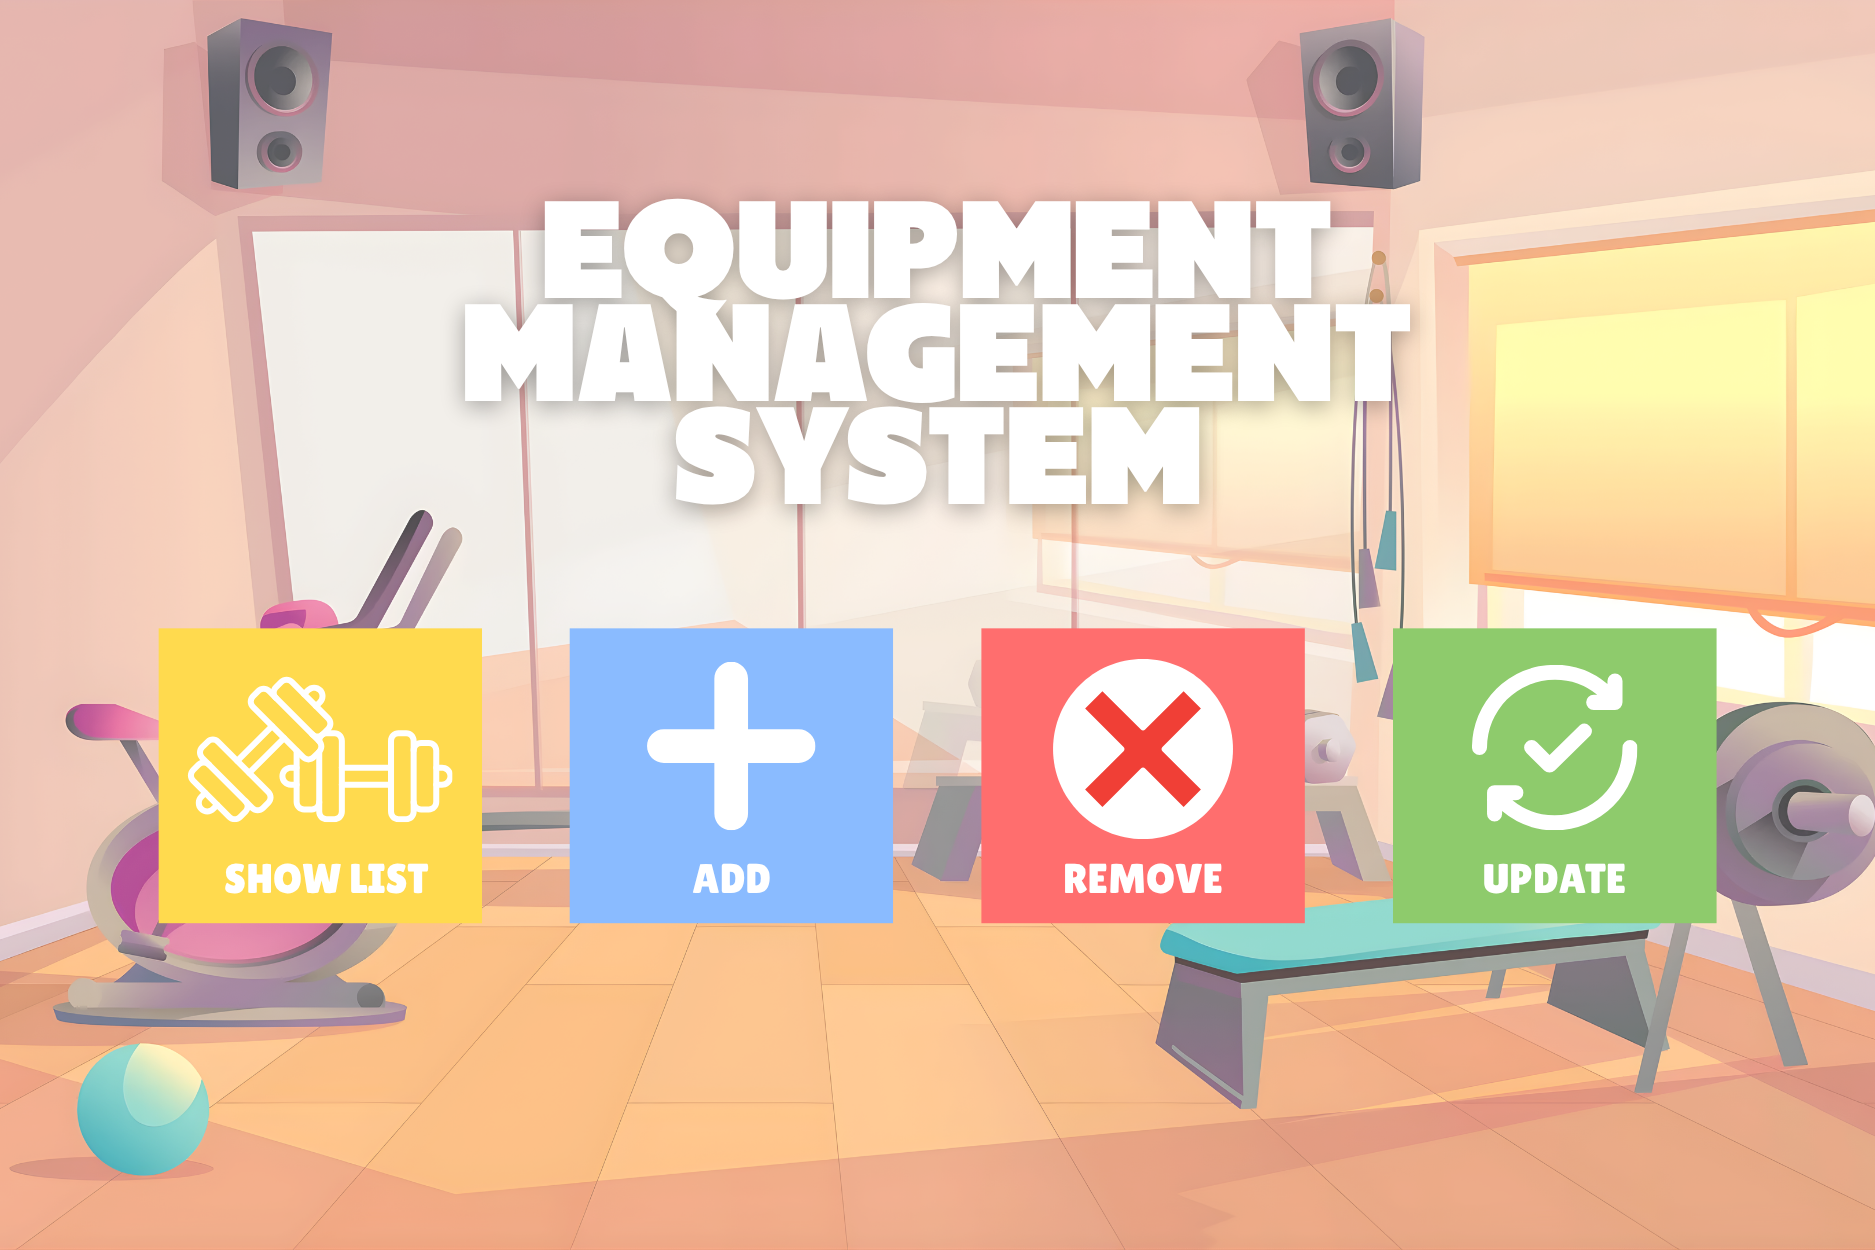
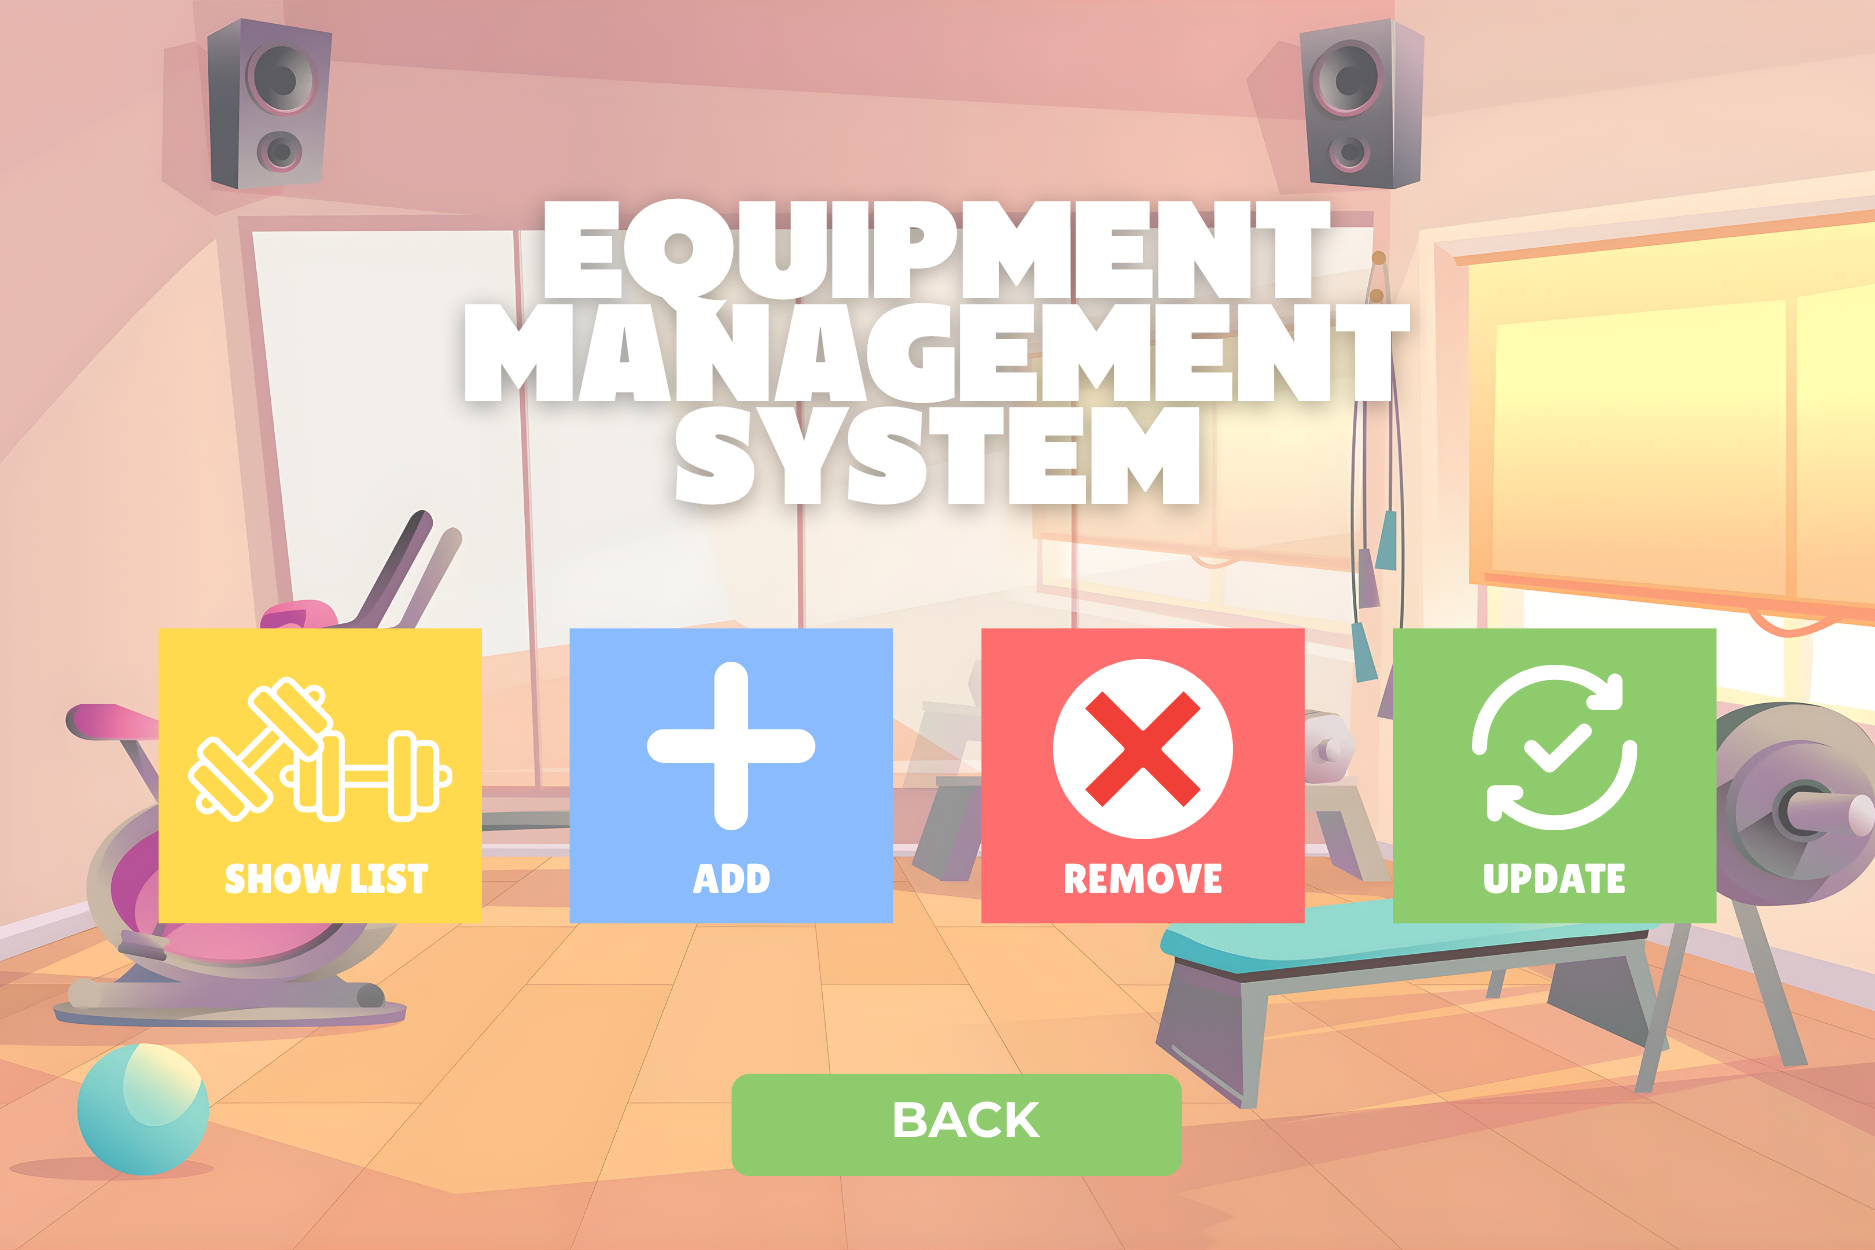
Dashboard Working, Equipment Tab started

Changed region(s): [[0.3712, 0.8424, 0.6496, 0.9672]]

diff --git a/src/main/java/com/gymdb/controller/MainMenuController.java b/src/main/java/com/gymdb/controller/MainMenuController.java
@@ -1,0 +1,95 @@
+package com.gymdb.controller;
+
+import javafx.event.ActionEvent;
+import javafx.fxml.FXML;
+import javafx.fxml.FXMLLoader;
+import javafx.scene.Node;
+import javafx.scene.Parent;
+import javafx.scene.Scene;
+import javafx.scene.control.Button;
+import javafx.stage.Stage;
+
+import java.io.IOException;
+
+public class MainMenuController {
+
+    @FXML private Button membersTab;
+    @FXML private Button staffTab;
+    @FXML private Button equipmentsTab;
+    @FXML private Button classTab;
+    @FXML private Button progressTab;
+    @FXML private Button paymentsTab;
+    @FXML private Button attendanceTab;
+    @FXML private Button lockerTab;
+    @FXML private Button productsTab;
+    @FXML private Button reportsTab;
+    @FXML private Button backBtn;
+
+    @FXML
+    public void initialize() {
+        // This runs after the FXML loads. You can initialize values here.
+    }
+
+    // Event handlers (you’ll add navigation later)
+    @FXML
+    private void handleMembersTab(ActionEvent event) {
+
+    }
+    @FXML
+    private void handleStaffTab(ActionEvent event) {
+
+    }
+    @FXML
+    private void handleEquipmentsTab(ActionEvent event) {
+        try {
+            FXMLLoader loader = new FXMLLoader(getClass().getResource("/Equipment.fxml"));
+            Parent root = loader.load();
+            Stage stage = (Stage) ((Node) event.getSource()).getScene().getWindow();
+            stage.setScene(new Scene(root));
+            stage.show();
+        } catch (IOException e) {
+            e.printStackTrace();
+        }
+    }
+    @FXML
+    private void handleClassTab(ActionEvent event) {
+
+    }
+    @FXML
+    private void handleProgressTab(ActionEvent event) {
+
+    }
+    @FXML
+    private void handlePaymentsTab(ActionEvent event) {
+
+    }
+    @FXML
+    private void handleAttendanceTab(ActionEvent event) {
+
+    }
+    @FXML
+    private void handleLockerTab(ActionEvent event) {
+
+    }
+    @FXML
+    private void handleProductsTab(ActionEvent event) {
+
+    }
+    @FXML
+    private void handleReportsTab(ActionEvent event) {
+
+    }
+    @FXML
+    private void handleBack(ActionEvent event) {
+        try {
+            FXMLLoader loader = new FXMLLoader(getClass().getResource("/Login.fxml"));
+            Parent root = loader.load();
+            Stage stage = (Stage) ((Node) event.getSource()).getScene().getWindow();
+            stage.setScene(new Scene(root));
+            stage.show();
+        } catch (IOException e) {
+            e.printStackTrace();
+        }
+    }
+
+}

diff --git a/src/main/java/com/gymdb/controller/EquipmentController.java b/src/main/java/com/gymdb/controller/EquipmentController.java
@@ -1,0 +1,70 @@
+package com.gymdb.controller;
+
+import javafx.event.ActionEvent;
+import javafx.fxml.FXML;
+import javafx.fxml.FXMLLoader;
+import javafx.scene.Node;
+import javafx.scene.Parent;
+import javafx.scene.Scene;
+import javafx.scene.control.Button;
+import javafx.stage.Stage;
+
+import java.io.IOException;
+
+public class EquipmentController {
+
+    @FXML
+    private Button showListEquip;
+
+    @FXML
+    private Button addEquip;
+
+    @FXML
+    private Button removeEquip;
+
+    @FXML
+    private Button updateEquip;
+
+    @FXML
+    private void handleList(ActionEvent event) {
+
+    }
+
+    @FXML
+    private void handleAdd(ActionEvent event) {
+        try {
+            FXMLLoader loader = new FXMLLoader(getClass().getResource("/AddEquipment.fxml"));
+            Parent root = loader.load();
+            Stage stage = (Stage) ((Node) event.getSource()).getScene().getWindow();
+            stage.setScene(new Scene(root));
+            stage.show();
+        } catch (IOException e) {
+            e.printStackTrace();
+        }
+
+    }
+
+    @FXML
+    private void handleRemove(ActionEvent event) {
+
+    }
+
+    @FXML
+    private void handleUpdate(ActionEvent event) {
+
+    }
+
+    @FXML
+    private void handleBack(ActionEvent event) {
+        try {
+            FXMLLoader loader = new FXMLLoader(getClass().getResource("/MainMenu.fxml"));
+            Parent root = loader.load();
+            Stage stage = (Stage) ((Node) event.getSource()).getScene().getWindow();
+            stage.setScene(new Scene(root));
+            stage.show();
+        } catch (IOException e) {
+            e.printStackTrace();
+        }
+
+    }
+}

diff --git a/src/main/java/com/gymdb/launcher/EquipmentLauncher.java b/src/main/java/com/gymdb/launcher/EquipmentLauncher.java
@@ -1,18 +1,20 @@
- package com.gymdb.view;
+package com.gymdb.launcher;
 
 import javafx.application.Application;
 import javafx.fxml.FXMLLoader;
-import javafx.scene.Parent;
 import javafx.scene.Scene;
 import javafx.stage.Stage;
+import javafx.scene.Parent;
 
-public class Login extends Application {
+public class EquipmentLauncher extends Application {
+
     @Override
     public void start(Stage primaryStage) throws Exception {
-        Parent root = FXMLLoader.load(getClass().getResource("/Login.fxml"));
+        FXMLLoader loader = new FXMLLoader(getClass().getResource("/Equipment.fxml"));
+        Parent root = loader.load();
         Scene scene = new Scene(root);
 
-        primaryStage.setTitle("Reps and Records");
+        primaryStage.setTitle("Reps and Records - Main Menu");
         primaryStage.setScene(scene);
         primaryStage.show();
     }

diff --git a/src/main/java/com/gymdb/launcher/MainMenuLauncher.java b/src/main/java/com/gymdb/launcher/MainMenuLauncher.java
@@ -1,18 +1,20 @@
- package com.gymdb.view;
+package com.gymdb.launcher;
 
 import javafx.application.Application;
 import javafx.fxml.FXMLLoader;
-import javafx.scene.Parent;
 import javafx.scene.Scene;
 import javafx.stage.Stage;
+import javafx.scene.Parent;
 
-public class Login extends Application {
+public class MainMenuLauncher extends Application {
+
     @Override
     public void start(Stage primaryStage) throws Exception {
-        Parent root = FXMLLoader.load(getClass().getResource("/Login.fxml"));
+        FXMLLoader loader = new FXMLLoader(getClass().getResource("/MainMenu.fxml"));
+        Parent root = loader.load();
         Scene scene = new Scene(root);
 
-        primaryStage.setTitle("Reps and Records");
+        primaryStage.setTitle("Reps and Records - Main Menu");
         primaryStage.setScene(scene);
         primaryStage.show();
     }

diff --git a/src/main/java/com/gymdb/controller/AddEquipmentController.java b/src/main/java/com/gymdb/controller/AddEquipmentController.java
@@ -1,0 +1,37 @@
+package com.gymdb.controller;
+
+import javafx.fxml.FXML;
+import javafx.scene.control.Button;
+import javafx.scene.control.TextField;
+
+public class AddEquipmentController {
+
+    @FXML
+    private TextField equipment_info;
+
+    @FXML
+    private TextField description_info;
+
+    @FXML
+    private TextField quantity_info;
+
+    @FXML
+    private TextField dop_info;
+
+    @FXML
+    private TextField vendor_info;
+
+    @FXML
+    private TextField address_info;
+
+    @FXML
+    private TextField contact_info;
+
+    @FXML
+    private TextField cpi_info;
+
+    @FXML
+    private Button saveBtn;
+
+
+}

diff --git a/src/main/java/module-info.java b/src/main/java/module-info.java
@@ -14,4 +14,5 @@ module com.example.dbapp {
     opens com.gymdb.utils to javafx.fxml;
     exports com.gymdb.controller;
     opens com.gymdb.controller to javafx.fxml;
+    opens com.gymdb.launcher to javafx.graphics;
 }

diff --git a/src/main/java/com/gymdb/launcher/AddEquipmentLauncher.java b/src/main/java/com/gymdb/launcher/AddEquipmentLauncher.java
@@ -1,0 +1,4 @@
+package com.gymdb.launcher;
+
+public class AddEquipmentLauncher {
+}
